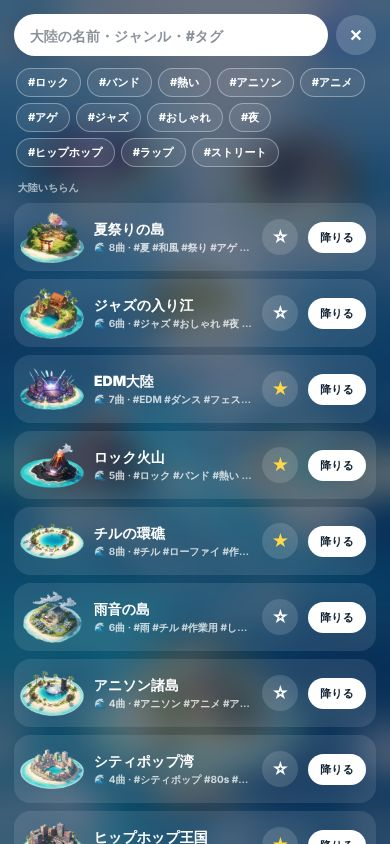
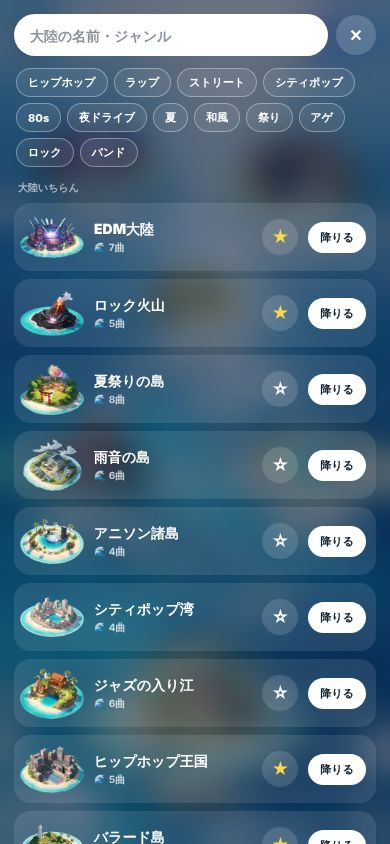
Sky search shows no tags (M-R310): genre chips without "#", only the drifted-work count under each continent in the planet's own unit, the placeholder "大陸の名前・ジャンル"; on play somebody always comes out of your place (chibi, else your figure, else the stand-in)
Claude-Session: https://claude.ai/code/session_01VLiVxXYEkJP9Xt5cBFE8CF

diff --git a/apps/web/components/planetTemplate/sky/SkyExplore.tsx b/apps/web/components/planetTemplate/sky/SkyExplore.tsx
@@ -6,7 +6,7 @@ import { templateConfig } from '@/lib/planetTemplate/config';
 import { clamp, isDrag } from '@/lib/planetTemplate/layout';
 import { LAND_SEA, MSLOT_X, sailMotion, shipStandIn } from '@/lib/planetTemplate/mercury';
 import type { Body } from '@/lib/planetTemplate/motion';
-import { pinchOf, SKY_ME, SKY_SLOTS, TRIP_SLOTS, type LandWork, type SkySource } from '@/lib/planetTemplate/sky';
+import { countLine, pinchOf, SEARCH_PLACEHOLDER, SKY_ME, SKY_SLOTS, TRIP_SLOTS, type LandWork, type SkySource } from '@/lib/planetTemplate/sky';
 import { SongStage } from '../mercury/SongStage';
 import x from './Sky.module.css';
 
@@ -243,19 +243,21 @@ export function SkyExplore({
           </button>
         </div>
       )}
-      {search && <SearchSheet source={source} favs={favs} onClose={() => setSearch(false)} onLand={(c) => land(c, 'map', { x: 0.5, y: 0.45 })} onFavourite={favourite} />}
+      {search && <SearchSheet planet={planet} source={source} favs={favs} onClose={() => setSearch(false)} onLand={(c) => land(c, 'map', { x: 0.5, y: 0.45 })} onFavourite={favourite} />}
     </div>
   );
 }
 
-/** 〔🔍 大陸をさがす〕: by name, genre, #tag or maker; best first, the same at random (never by popularity, M-R298) */
+/** 〔🔍 大陸をさがす〕: by name, genre (the chips: words only, no 「#」, M-R310) or maker; best first, the same at random (never by popularity, M-R298) */
 function SearchSheet({
+  planet,
   source,
   favs,
   onClose,
   onLand,
   onFavourite,
 }: {
+  planet: HomePlanet;
   source: SkySource;
   favs: FavouriteSlots;
   onClose: () => void;
@@ -291,7 +293,7 @@ function SearchSheet({
   return (
     <div className={x.esheet} data-testid="sky-sheet">
       <div className={x.eshead}>
-        <input value={q} onChange={(e) => setQ(e.target.value)} type="search" placeholder="大陸の名前・ジャンル・#タグ" autoComplete="off" aria-label="大陸をさがす" />
+        <input value={q} onChange={(e) => setQ(e.target.value)} type="search" placeholder={SEARCH_PLACEHOLDER} autoComplete="off" aria-label="大陸をさがす" />
         <button type="button" onClick={onClose} aria-label="とじる">
           ✕
         </button>
@@ -299,7 +301,7 @@ function SearchSheet({
       <div className={x.estags}>
         {tags.map((g) => (
           <button key={g} type="button" className={g === tag ? x.on : ''} onClick={() => setTag((t) => (t === g ? '' : g))}>
-            #{g}
+            {g}
           </button>
         ))}
       </div>
@@ -313,9 +315,7 @@ function SearchSheet({
               <div className={x.th} style={c.pictures.sky ? { backgroundImage: `url(${c.pictures.sky})` } : undefined} />
               <div className={x.t}>
                 <b>{c.name}</b>
-                <small>
-                  🌊 {c.count ?? 0}曲 · {c.tags.map((g) => `#${g}`).join(' ')} · {c.creator ? `by ${c.creator.name}` : '公式'}
-                </small>
+                <small>{countLine(planet, c.count)}</small>
               </div>
               <button type="button" className={`${x.st} ${fav ? x.on : ''}`} aria-label="お気に入り" onClick={() => onFavourite(c, !fav)}>
                 {fav ? '★' : '☆'}

diff --git a/apps/web/lib/planetTemplate/sky.test.ts b/apps/web/lib/planetTemplate/sky.test.ts
@@ -1,6 +1,6 @@
 import { describe, expect, it, vi } from 'vitest';
 import type { HomeWork } from '@obolo/shared';
-import { pinchOf, SAMPLE_CONTINENTS, sampleDrift, sampleSky, sampleSkyWorks, sampleSong, SKY_SLOTS, songOf, TRIP_SLOTS } from './sky';
+import { countLine, pinchOf, SAMPLE_CONTINENTS, sampleDrift, sampleSky, sampleSkyWorks, sampleSong, SEARCH_PLACEHOLDER, SKY_COUNT_UNIT, SKY_SLOTS, songOf, TRIP_SLOTS } from './sky';
 
 const seq = () => {
   let i = 0;
@@ -73,5 +73,15 @@ describe('a work’s song', () => {
     expect((await songOf(api, w({})))?.lyrics).toHaveLength(1);
     const broken = { planetSong: vi.fn(async () => Promise.reject(new Error('x'))) };
     expect(await songOf(broken, w({}))).toMatchObject({ url: 'https://x/s.m4a', lyrics: [] });
+  });
+});
+
+describe('the search shows no tags (M-R310)', () => {
+  it("counts the drifted works the planet's way, and asks for a name or genre only", () => {
+    expect(countLine('mercury', 8)).toBe('🌊 8曲');
+    expect(countLine('jupiter', 3)).toBe('🌊 3作品');
+    expect(countLine('saturn', null)).toBe('🌊 0人');
+    expect(Object.keys(SKY_COUNT_UNIT)).toHaveLength(8);
+    expect(SEARCH_PLACEHOLDER).toBe('大陸の名前・ジャンル');
   });
 });

diff --git a/apps/web/components/planetTemplate/PlanetTemplateHome.tsx b/apps/web/components/planetTemplate/PlanetTemplateHome.tsx
@@ -5,7 +5,8 @@ import { useCallback, useEffect, useLayoutEffect, useMemo, useRef, useState, typ
 import { templateConfig, type PlanetTemplateConfig } from '@/lib/planetTemplate/config';
 import { clamp, isDrag, replace, seat, type Crowd } from '@/lib/planetTemplate/layout';
 import type { Body } from '@/lib/planetTemplate/motion';
-import { peopleOf, type HomePerson } from '@/lib/planetTemplate/people';
+import { dancerOf, peopleOf, type HomePerson } from '@/lib/planetTemplate/people';
+import { SAMPLE_OWN_FIGURE } from '@/lib/planetTemplate/sample';
 import { pinchOf } from '@/lib/planetTemplate/sky';
 import { PlayView } from './PlayView';
 import { Profile, type ProfileMiddleSlot, type ProfilePerson } from './Profile';
@@ -343,7 +344,7 @@ export function PlanetTemplateHome({
           cfg={cfg}
           people={playing}
           back={me.back}
-          dancer={(cfg.play.danceAs === 'figure' ? me.figure : me.dance) ?? null}
+          dancer={dancerOf(cfg.play.danceAs, me, SAMPLE_OWN_FIGURE(planet))}
           opener={opener}
           figure={hooks.figure}
           onEnd={(finished) => {

diff --git a/apps/web/lib/planetTemplate/jupiter.test.ts b/apps/web/lib/planetTemplate/jupiter.test.ts
@@ -24,6 +24,7 @@ import {
   wingCutOf,
   wingParts,
 } from './jupiter';
+import { dancerOf } from './people';
 import { templateSample } from './sample';
 
 const insetOf = (clip: string) => clip.match(/[\d.]+/g)!.map(Number); // top right bottom left
@@ -132,6 +133,16 @@ describe('03 §3 ▶ from the porch', () => {
     expect(cycle).toBeGreaterThan(4300);
     expect(cycle).toBeLessThan(5000);
     expect(templateConfig('mercury').play.danceAs).toBe('dance');
+  });
+});
+
+describe('▶: somebody always comes out of your place', () => {
+  it("takes the planet's choice, else the other picture, else the stand-in", () => {
+    expect(dancerOf('dance', { figure: 'ship', dance: 'chibi' }, 'x')).toBe('chibi');
+    expect(dancerOf('dance', { figure: 'ship', dance: null }, 'x')).toBe('ship');
+    expect(dancerOf('figure', { figure: 'bf', dance: 'chibi' }, 'x')).toBe('bf');
+    expect(dancerOf('figure', { figure: null, dance: 'chibi' }, 'x')).toBe('chibi');
+    expect(dancerOf('dance', { figure: null }, 'x')).toBe('x');
   });
 });
 

diff --git a/apps/web/lib/planetTemplate/sky.ts b/apps/web/lib/planetTemplate/sky.ts
@@ -25,6 +25,14 @@ import { SAMPLE_LYRICS, SAMPLE_SONGS, sampleSongOf, sampleSongUrl, shipStandIn }
  * the prototype's continents and songs kept in the browser.
  */
 
+/**
+ * 〔🔍 大陸をさがす〕's words. No tags are ever shown (M-R310: the classification stays hidden): the genre chips are the
+ * words alone (no 「#」), and under each continent only how many works drifted there, counted the planet's way.
+ */
+export const SEARCH_PLACEHOLDER = '大陸の名前・ジャンル';
+export const SKY_COUNT_UNIT: Record<HomePlanet, string> = { mercury: '曲', jupiter: '作品', saturn: '人', mars: '作品', venus: '作品', uranus: '作品', pluto: '作品', neptune: '作品' };
+export const countLine = (planet: HomePlanet, n: number | null | undefined) => `🌊 ${n ?? 0}${SKY_COUNT_UNIT[planet]}`;
+
 /** じぶんの空: the five islands' places (x, y, width — fractions) and your own island's (ESLOT / EME) */
 export const SKY_SLOTS: readonly (readonly [number, number, number])[] = [
   [0.25, 0.2, 0.37],

diff --git a/apps/web/lib/planetTemplate/people.ts b/apps/web/lib/planetTemplate/people.ts
@@ -24,6 +24,16 @@ export function ownFigure(figures: PlanetFigures | null | undefined, planet: Hom
   return (planet === 'saturn' ? (f.ball ?? f.url) : f.url) ?? null;
 }
 
+/**
+ * Who comes out of your place when ▶ is pressed (Mercury: you dancing; Jupiter: your butterfly). Nobody coming out is to be
+ * avoided: without the planet's first choice, the other one (your figure on this planet), else the template's own stand-in.
+ */
+export function dancerOf(danceAs: 'dance' | 'figure', me: { figure: string | null; dance?: string | null }, standIn: string): string {
+  const first = danceAs === 'figure' ? me.figure : me.dance;
+  const second = danceAs === 'figure' ? me.dance : me.figure;
+  return first || second || standIn;
+}
+
 /** the people of a home: everyone with a work around you (dachi and 推し), the newest arrival first; one figure each */
 export function peopleOf(view: PlanetHomeView | null | undefined): HomePerson[] {
   if (!view) return [];

diff --git a/docs/planets.md b/docs/planets.md
@@ -63,10 +63,10 @@ API は `apps/api/src/planets/planet-works.service.ts`・`continents.service.ts`
 - 置き方は惑星ごと（`config.motion`）：木星などは今まで通り JSLOT で漂う（`driftMotion`）。水星は `sailMotion`（`lib/planetTemplate/mercury.ts`）：試作の **MSLOT**（奥2・中3・手前2＝7隻、`[高さ, 大きさ, 段]`）の航路を左右に進み、画面の端から反対側へ回りこむ。波で上下・傾く。速さは試作の `(10+((i·7)%4)·4)·(奇数の枠は左)·(0.6+大きさ·0.5)` px/秒。ドラッグは海の上だけ（`seaOnly`：高さ .56〜.9、大きさ `[[.6,.5],[.69,.78],[.83,1.08]]`、段の境 .64／.78）。8人目からは順番待ち。
 - §2 タップ：船が手前（画面の .5／.84、2.15倍）へ、ホームが寄ってぼける。0.45秒でその曲（もう一度タップするまでループ、M-R282）と**ピクチャーディスク**（ジャケットが円盤いっぱい・溝・穴）。歌詞は曲の時間に合わせて1行ずつ（左から白く色づく・次の行がうすく下）。2.2秒で曲名（曲ごとの字体と出方：試作の5曲は試作の組、ほかはジャンルから。字の種類で大きさ）。曲名の読み上げは `titleVoice` があれば鳴らす（今は無い：null）。「NOW PLAYING」・by は出さない。
 - データ：`GET /planet-works/planet_post/:id/song` → `PlanetSongView`（音・ジャケット・曲名・`titleVoice`・`lyrics: [{t, end, text}]`）。歌詞の時間は曲の作りから計算（MV の焼きこみ歌詞と同じ `compose/lyrics.ts timedLyrics`）。歌詞の無い曲・曲の元が無い投稿は歌詞なし。見られるのは、作った人・ダチ／推し・その曲が public で流れ着く人だけ。
-- §3 ▶：自分（`/me chibiPic`、見本は試作の踊る絵）が家から飛び出す → 夜の桟橋（花火）、右下に後ろ姿。船が左から来て手前で止まり、ディスク・曲名・歌詞・曲を**最後まで**、終わると右へ去って次。全部で「🏝 今日の曲、全部聴いたね！」。■・画面タップで止める。（`config.play`：道すじ・`untilDone`・夜・花火・踊り）
+- §3 ▶：自分（`/me chibiPic`、見本は試作の踊る絵。無い人はその惑星の自分の姿、それも無ければ見本の姿：`dancerOf`。誰も出てこないことはない）が家から飛び出す → 夜の桟橋（花火）、右下に後ろ姿。船が左から来て手前で止まり、ディスク・曲名・歌詞・曲を**最後まで**、終わると右へ去って次。全部で「🏝 今日の曲、全部聴いたね！」。■・画面タップで止める。（`config.play`：道すじ・`untilDone`・夜・花火・踊り）
 - §4 プロフィール：浜辺にその人の曲のレコードがスタンドに立って並ぶ（横スクロール）。タップでディスク・曲名・歌詞・曲（そのレコードも回る）。
-- 空（06 の先取り・M-R295〜M-R312）：ホームで2本指でつまむ（PC は ctrl+ホイール）と「じぶんの空」（じぶんの島＋お気に入り5大陸）。〔🔍 大陸をさがす〕・☆（5つ埋まっていれば「どの島と入れかえる？」→ 島をタップ）・〔✈ 旅〕（まだ見ていない6大陸）。島をタップで降りる：流れ着いた知らない人の船が航行（海の上だけドラッグ可）、タップで曲＋作った人（船の姿と名前）＋☆（ブルーナ）♡（推す）⋯（表示しない／通報）。右上▶で岸（`shore_url`）から1隻ずつ、止めるまでずっと。つまむ／← で空へ、空で広げる／じぶんの島でホームへ。15歳未満には作品が出ない。データは 2-4／2-5 の API。見本は試作の10大陸と曲（ブラウザの中だけ）。
-- 大陸の絵：水星の10大陸 ×3枚（空の島・降りた景色・岸）を試作から書き出し（`public/planets/continents/mercury/`、migration `0058` で URL を入れた）。残りは木星・土星の 60 枚。
+- 空（06 の先取り・M-R295〜M-R312）：ホームで2本指でつまむ（PC は ctrl+ホイール）と「じぶんの空」（じぶんの島＋お気に入り5大陸）。〔🔍 大陸をさがす〕（タグは見せない、M-R310：ジャンルの札は「#」なしの言葉だけ、結果の下は「🌊 N曲」だけ — 単位は惑星ごと `SKY_COUNT_UNIT`：水星 曲・木星 作品・土星 人。入力欄は「大陸の名前・ジャンル」）・☆（5つ埋まっていれば「どの島と入れかえる？」→ 島をタップ）・〔✈ 旅〕（まだ見ていない6大陸）。島をタップで降りる：流れ着いた知らない人の船が航行（海の上だけドラッグ可）、タップで曲＋作った人（船の姿と名前）＋☆（ブルーナ）♡（推す）⋯（表示しない／通報）。右上▶で岸（`shore_url`）から1隻ずつ、止めるまでずっと。つまむ／← で空へ、空で広げる／じぶんの島でホームへ。15歳未満には作品が出ない。データは 2-4／2-5 の API。見本は試作の10大陸と曲（ブラウザの中だけ）。
+- 大陸の絵：水星の10大陸 ×3枚（空の島・降りた景色・岸）を試作から書き出し（`public/planets/continents/mercury/`、migration `0058` で URL を入れた）。木星の10広場 ×3枚も同じく（`public/planets/continents/jupiter/`、空の海 `sea.webp`・じぶんの島 `me.webp` も、migration `0059`）。残りは土星の 30 枚。
 
 ## 03 木星（引き継ぎ planets-03-jupiter.md）
 まだ見比べ用の **`/planets-preview/jupiter`** だけ（本番の木星の画面はそのまま）。見本は `?sample=1`。スクリーンショットは `docs/handoff/shots/jupiter-*.jpg`（390×844）。数字とルールは `lib/planetTemplate/jupiter.ts`（`jupiter.test.ts`）、部品は `components/planetTemplate/jupiter/`。
@@ -77,7 +77,7 @@ API は `apps/api/src/planets/planet-works.service.ts`・`continents.service.ts`
 - §3 ▶：自分の蝶が木から出て、夜のポーチ（`hv-jupiter.webp`）にほたる18匹。右下に後ろ姿。1.7 秒で最初の蝶が上から飛んで来て手前で止まり（0.85 秒）、左下へ寄って掛け軸が開く（約3秒）→ 巻き上がって右上へ去り、次。全部で「🌳 今日のアート、全部見たね！」。■・画面タップで止める。（`config.play`：`PORCH_PATH`・`fireflies`・`danceAs: 'figure'`）
 - §4 プロフィール：アトリエ（`prof-jupiter.webp`）の壁に、その人のアートが金の額（ひもと釘つき）で2列、縦にスクロール、少しずつ傾いて掛かる。額をタップで同じ掛け軸（もう一度タップで閉じる）。
 - API：足していない（ホームの `GET /planet-home/jupiter` の作品に絵・ことば・タグがあり、それで開ける）。
-- 空：03 には無い（06）。木星の大陸の絵は下の「大陸の絵」。
+- 空：03 には無い（06 で木星の空を作る）。木星の大陸の絵は入れた（0059、10広場の key と絵の名前は全部一致）。
 
 ## API
 | | |
@@ -98,7 +98,7 @@ API は `apps/api/src/planets/planet-works.service.ts`・`continents.service.ts`
 
 ## まだのこと
 - 公開範囲の初期値（依頼主の答え待ち。今は dachi）。
-- 大陸の絵：水星の30枚は入った（0058）。木星・土星の60枚。
+- 大陸の絵：水星（0058）・木星（0059）の60枚は入った。土星の30枚。
 - MV・ラジオ・グッズ・物語・ゲームのタグの値（02 以降）。
 - 木星（03）：アートの題の欄（今はことばの1行目）、題名の字体と出方を作る時に AI が選んで保存すること、題名の読み上げの声、本番の蝶の姿の羽の切れ目（姿の絵ごとに L・R を持つか、体と羽を分けた絵にする）。
 - 木星のスタイル：アートのスペルの style に **ゆめかわ・和モダン・レトロ・ポップ** を足した（`packages/shared/src/spell.ts`、スペルのモデルの案内 `packages/ai/src/prompts/spell.ts` も）。これからのアートはその広場に画風でも流れ着く。
